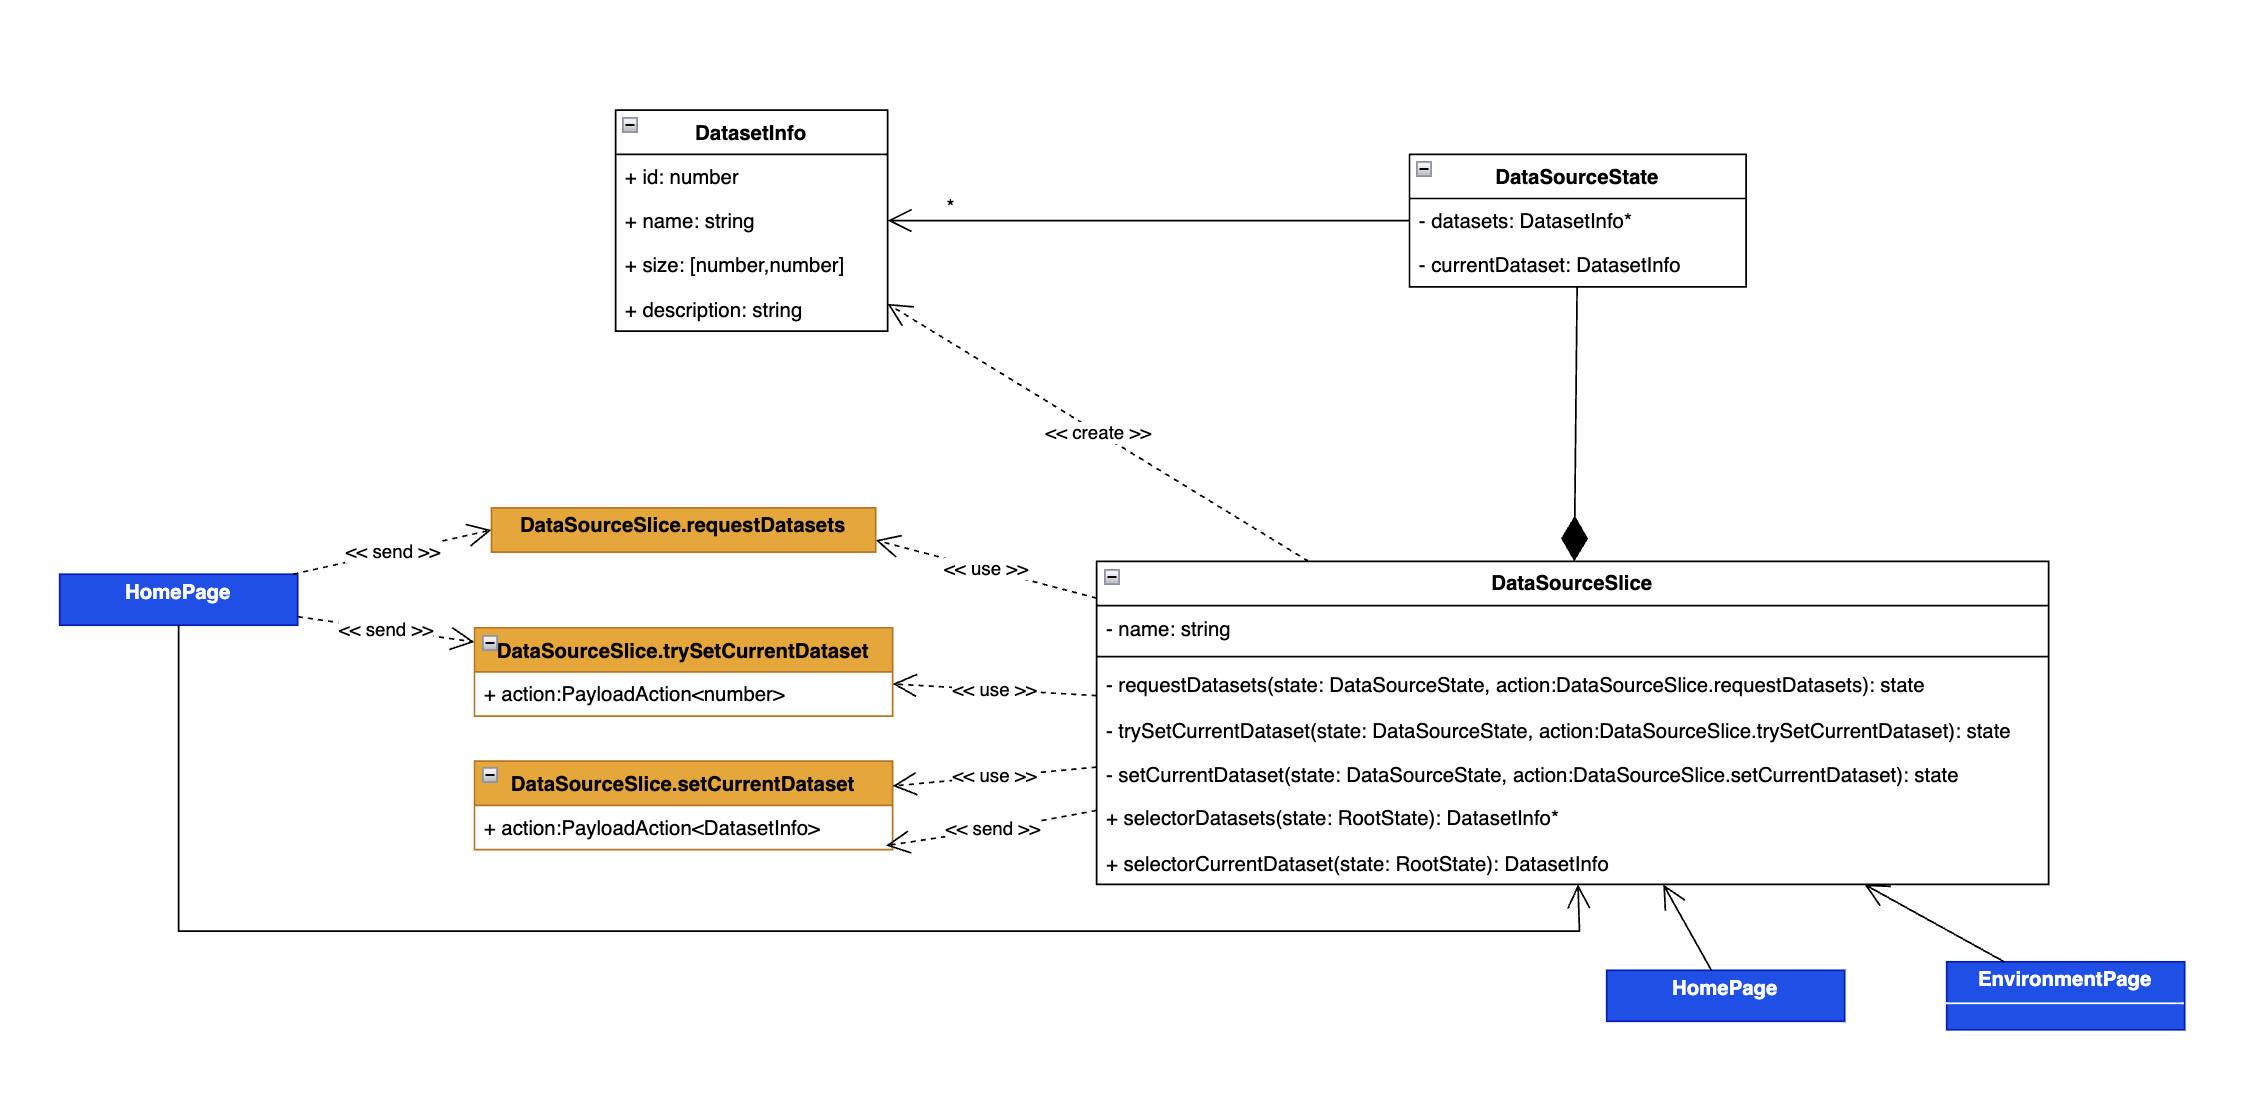
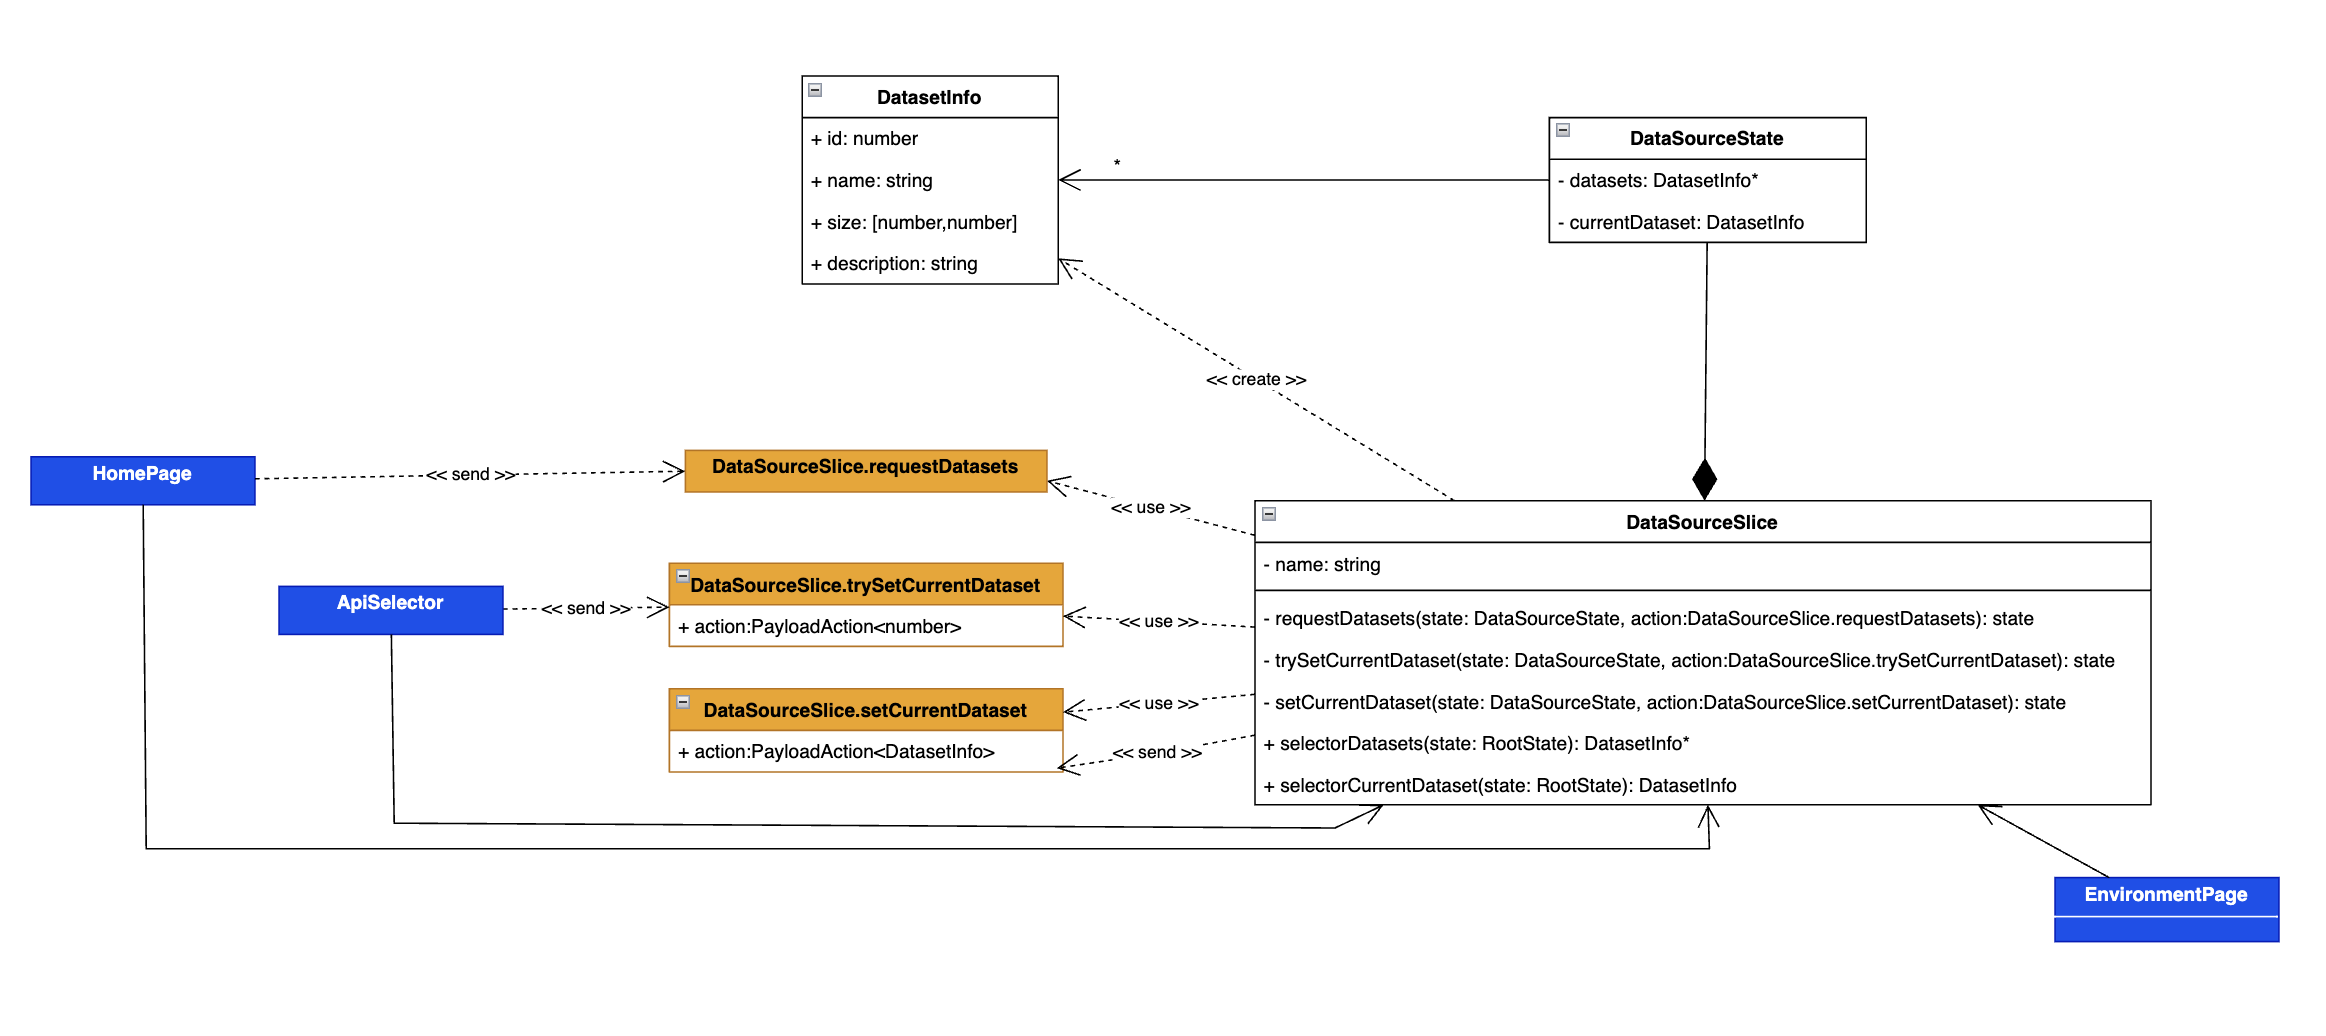
change: fix datasourceslice e posizione immagini

diff --git a/Docs/PB/Generali Esterni/specifica_tecnica/03_architettura_front.tex b/Docs/PB/Generali Esterni/specifica_tecnica/03_architettura_front.tex
@@ -437,8 +437,6 @@ Questo diagramma illustra i componenti per recuperare le informazioni relative a
                         \begin{itemize}
                               \item DataSourceSlice (associazione): contiene implicitamente un'istanza di
                                     DataSourceSlice;
-                              \item DataSourceSlice.requestDatasets (dipendenza semplice <<send>>): crea ed emette
-                                    un'istanza dell'action DataSourceSlice.requestDatasets;
                               \item DataSourceSlice.trySetCurrentDataset (dipendenza semplice <<send>>): crea ed
                                     emette un'istanza dell'action DataSourceSlice.trySetCurrentDataset.
                         \end{itemize}
@@ -449,7 +447,6 @@ Questo diagramma illustra i componenti per recuperare le informazioni relative a
                         \end{itemize}
                   \item \textbf{Action emesse:}
                         \begin{itemize}
-                              \item DataSourceSlice.requestDatasets;
                               \item DataSourceSlice.trySetCurrentDataset.
                         \end{itemize}
             \end{itemize}
@@ -474,14 +471,23 @@ Questo diagramma illustra i componenti per recuperare le informazioni relative a
                         \begin{itemize}
                               \item DataSourceSlice (associazione): contiene implicitamente un'istanza di
                                     DataSourceSlice.
+                              \item DataSourceSlice.requestDatasets (dipendenza semplice <<send>>): crea ed emette
+                                    un'istanza dell'action DataSourceSlice.requestDatasets;
                         \end{itemize}
                   \item \textbf{Interazioni:}
                         \begin{itemize}
                               \item DataSourceSlice: viene utilizzato il metodo requestDatasets per reperire
-                                    i dataset disponibili e il metodo trySetCurrentDataset per impostare il dataset selezionato.
+                                    i dataset disponibili.
+                        \end{itemize}
+                  
+                  \item \textbf{Action emesse:}
+                        \begin{itemize}
+                              \item DataSourceSlice.requestDatasets.
                         \end{itemize}
             \end{itemize}
 \end{itemize}
+
+\pagebreak
 
 \paragraph{AppSlice}
 \begin{figure}[h!] \centering
@@ -888,6 +894,8 @@ Questo diagramma mostra i componenti per aggiornare e condividere le informazion
             \end{itemize}
 \end{itemize}
 
+\pagebreak
+
 \paragraph{Redux store}
 \begin{figure}[h!] \centering
       \includegraphics[scale=0.45]{template/images/uml_front/logic/Store.png}
@@ -1119,6 +1127,8 @@ Questo diagramma presenta la struttura e gli elementi che costituiscono l'ambien
                         \end{itemize}
             \end{itemize}
 \end{itemize}
+
+\pagebreak
 
 \paragraph{BarChart}
 \begin{figure}[h!] \centering
